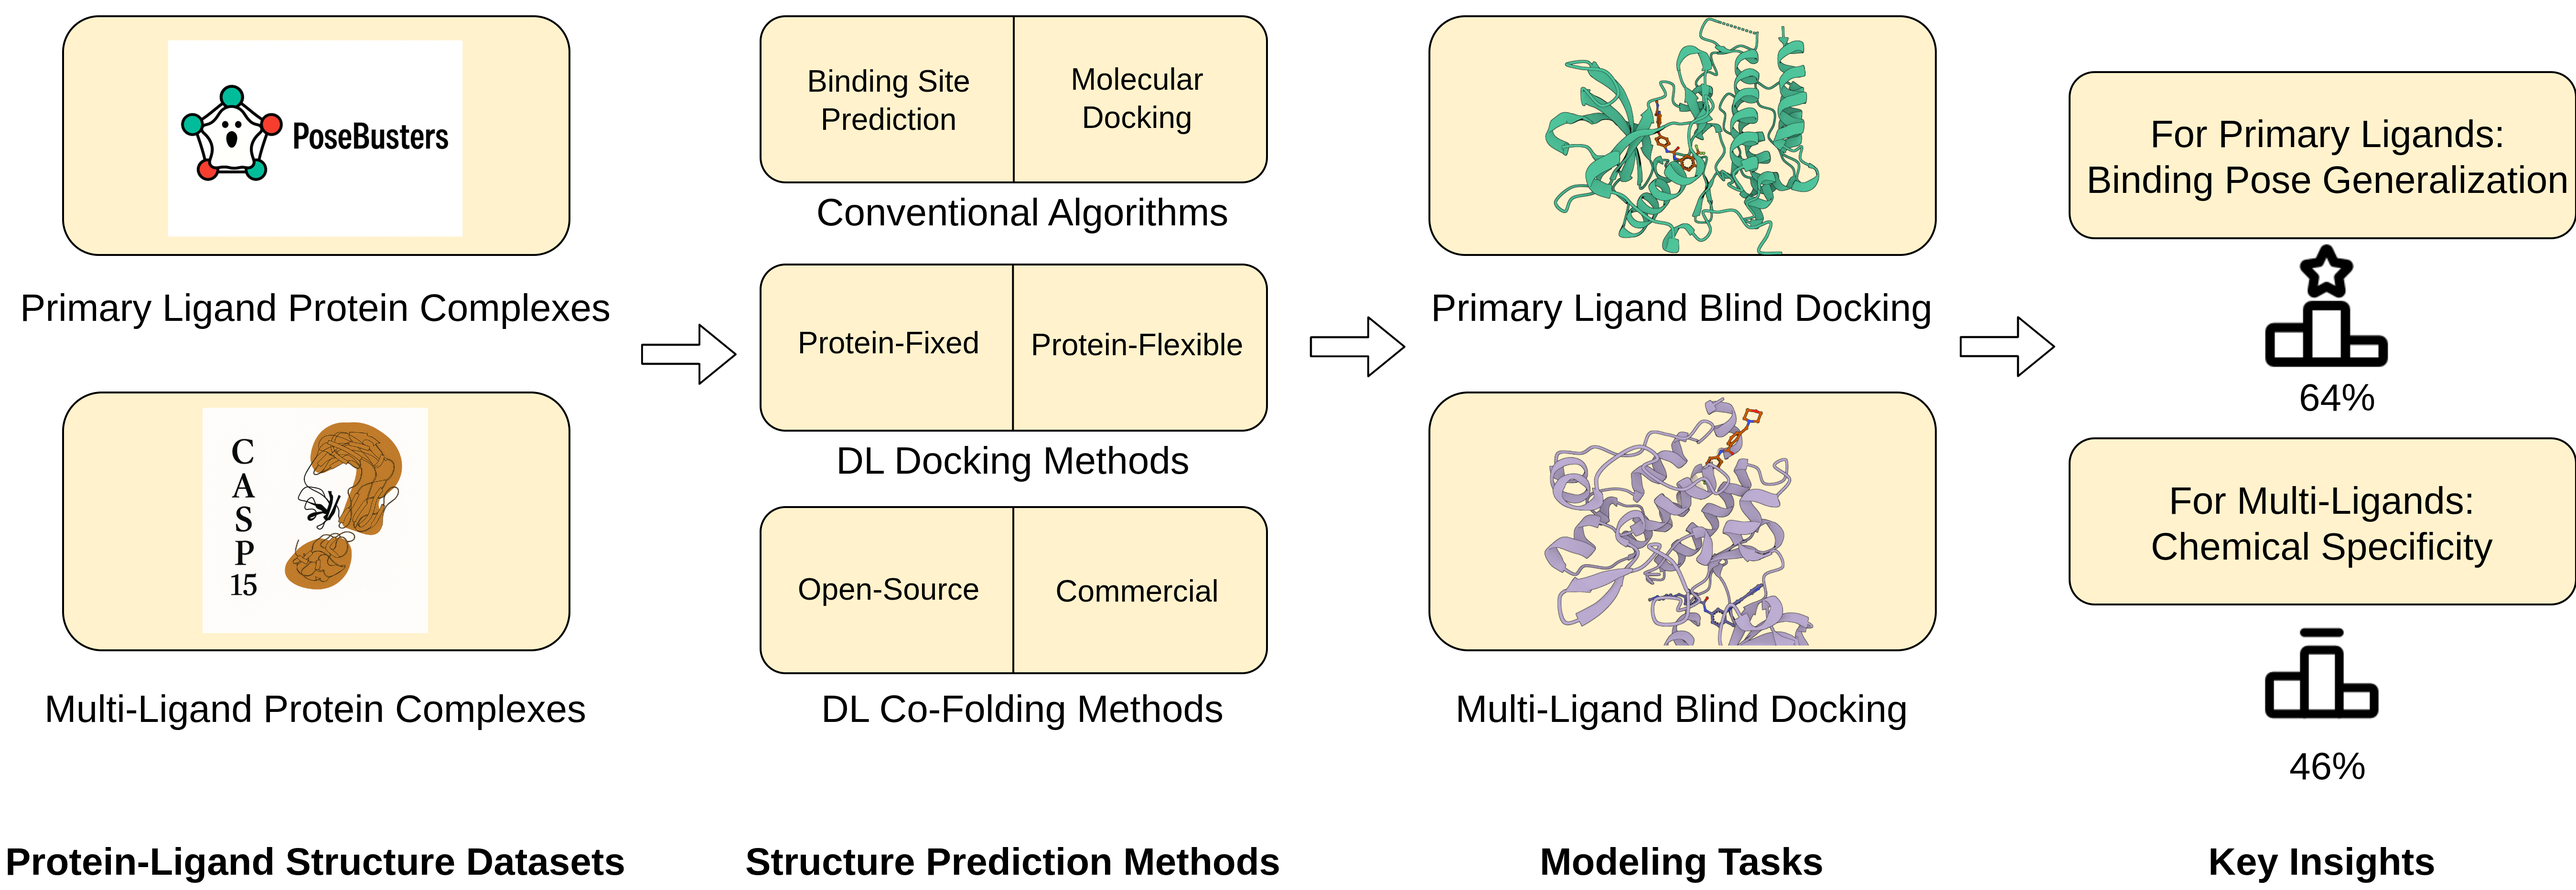
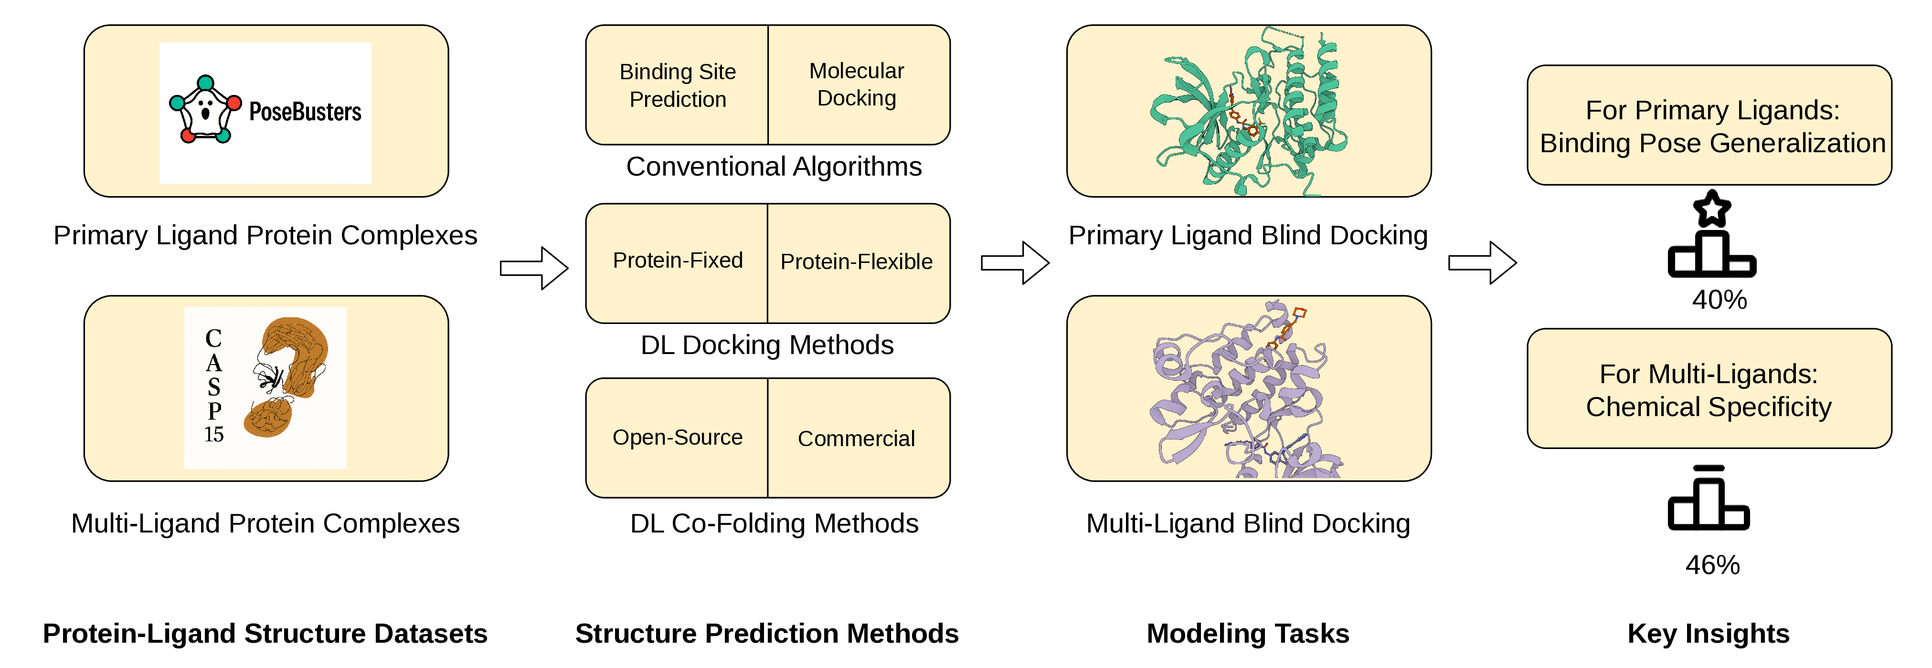
update: adjust line references in documentation includes for consistency, and update PoseBench image

diff --git a/docs/source/data_preparation.rst b/docs/source/data_preparation.rst
@@ -2,8 +2,8 @@ How to prepare `PoseBench` data
 ================
 
 .. mdinclude:: ../../README.md
-    :start-line: 207
-    :end-line: 359
+    :start-line: 209
+    :end-line: 361
 
 .. note::
     The preprocessed Astex Diverse, PoseBusters Benchmark, DockGen, and CASP15 data (available via Zenodo at https://doi.org/10.5281/zenodo.19138652) provide pre-holo-aligned protein structures predicted by AlphaFold 3 (and alternatively MIT-licensed ESMFold) for these respective datasets. Accordingly, users must ensure their usage of such predicted protein structures from AlphaFold 3 aligns with AlphaFold 3's Terms of Use at https://github.com/google-deepmind/alphafold3/blob/main/WEIGHTS_TERMS_OF_USE.md.

diff --git a/docs/source/ensemble_inference.rst b/docs/source/ensemble_inference.rst
@@ -2,8 +2,8 @@ How to run inference with a method ensemble
 ================
 
 .. mdinclude:: ../../README.md
-    :start-line: 1178
-    :end-line: 1229
+    :start-line: 1180
+    :end-line: 1231
 
 .. note::
     In addition to having `consensus` as an available value for `ensemble_ranking_method`, one can also set `ensemble_ranking_method=ff` to have the method ensemble's top-ranked predictions selected using the criterion of "minimum (molecular dynamics) force field energy" (albeit while incurring a very large runtime complexity).

diff --git a/docs/source/available_methods.rst b/docs/source/available_methods.rst
@@ -2,8 +2,8 @@ Available inference methods
 ================
 
 .. mdinclude:: ../../README.md
-    :start-line: 367
-    :end-line: 412
+    :start-line: 369
+    :end-line: 414
 
 .. note::
     Have a new method to add? Please let us know by creating a pull request. We would be happy to work with you to integrate new methodology into this benchmark!

diff --git a/docs/source/sweep_inference.rst b/docs/source/sweep_inference.rst
@@ -2,8 +2,8 @@ How to run a sweep of benchmarking experiments
 ================
 
 .. mdinclude:: ../../README.md
-    :start-line: 420
-    :end-line: 434
+    :start-line: 422
+    :end-line: 436
 
 .. note::
     See the config file `configs/scripts/build_inference_script.yaml` for more details.

diff --git a/docs/source/bonus.rst b/docs/source/bonus.rst
@@ -2,8 +2,8 @@ Bonus
 ================
 
 .. mdinclude:: ../../README.md
-    :start-line: 1350
-    :end-line: 1352
+    :start-line: 1352
+    :end-line: 1354
 
 .. image:: ./_static/WorkBench.jpeg
   :alt: My brain after building PoseBench

diff --git a/docs/source/comparative_plots.rst b/docs/source/comparative_plots.rst
@@ -2,5 +2,5 @@ How to create comparative plots of inference results
 ================
 
 .. mdinclude:: ../../README.md
-    :start-line: 1237
-    :end-line: 1265
+    :start-line: 1239
+    :end-line: 1267

diff --git a/docs/source/index.rst b/docs/source/index.rst
@@ -20,6 +20,10 @@ Welcome to PoseBench's documentation!
     :start-line: 20
     :end-line: 22
 
+.. mdinclude:: ../../README.md
+    :start-line: 24
+    :end-line: 26
+
 
 .. toctree::
    :maxdepth: 2

diff --git a/docs/source/method_inference.rst b/docs/source/method_inference.rst
@@ -2,5 +2,5 @@ How to run inference with individual methods
 ================
 
 .. mdinclude:: ../../README.md
-    :start-line: 440
-    :end-line: 1172
+    :start-line: 442
+    :end-line: 1174

diff --git a/docs/source/acknowledgements.rst b/docs/source/acknowledgements.rst
@@ -2,5 +2,5 @@ Acknowledgements
 ================
 
 .. mdinclude:: ../../README.md
-    :start-line: 1309
-    :end-line: 1332
+    :start-line: 1311
+    :end-line: 1334

diff --git a/docs/source/citing_this_work.rst b/docs/source/citing_this_work.rst
@@ -2,5 +2,5 @@ Citing this work
 ================
 
 .. mdinclude:: ../../README.md
-    :start-line: 1334
-    :end-line: 1346
+    :start-line: 1336
+    :end-line: 1348

diff --git a/docs/source/for_developers.rst b/docs/source/for_developers.rst
@@ -2,5 +2,5 @@ For developers
 ================
 
 .. mdinclude:: ../../README.md
-    :start-line: 1271
-    :end-line: 1305
+    :start-line: 1273
+    :end-line: 1307

diff --git a/docs/source/installation.rst b/docs/source/installation.rst
@@ -2,5 +2,5 @@ Installation
 ================
 
 .. mdinclude:: ../../README.md
-    :start-line: 43
-    :end-line: 189
+    :start-line: 45
+    :end-line: 191
